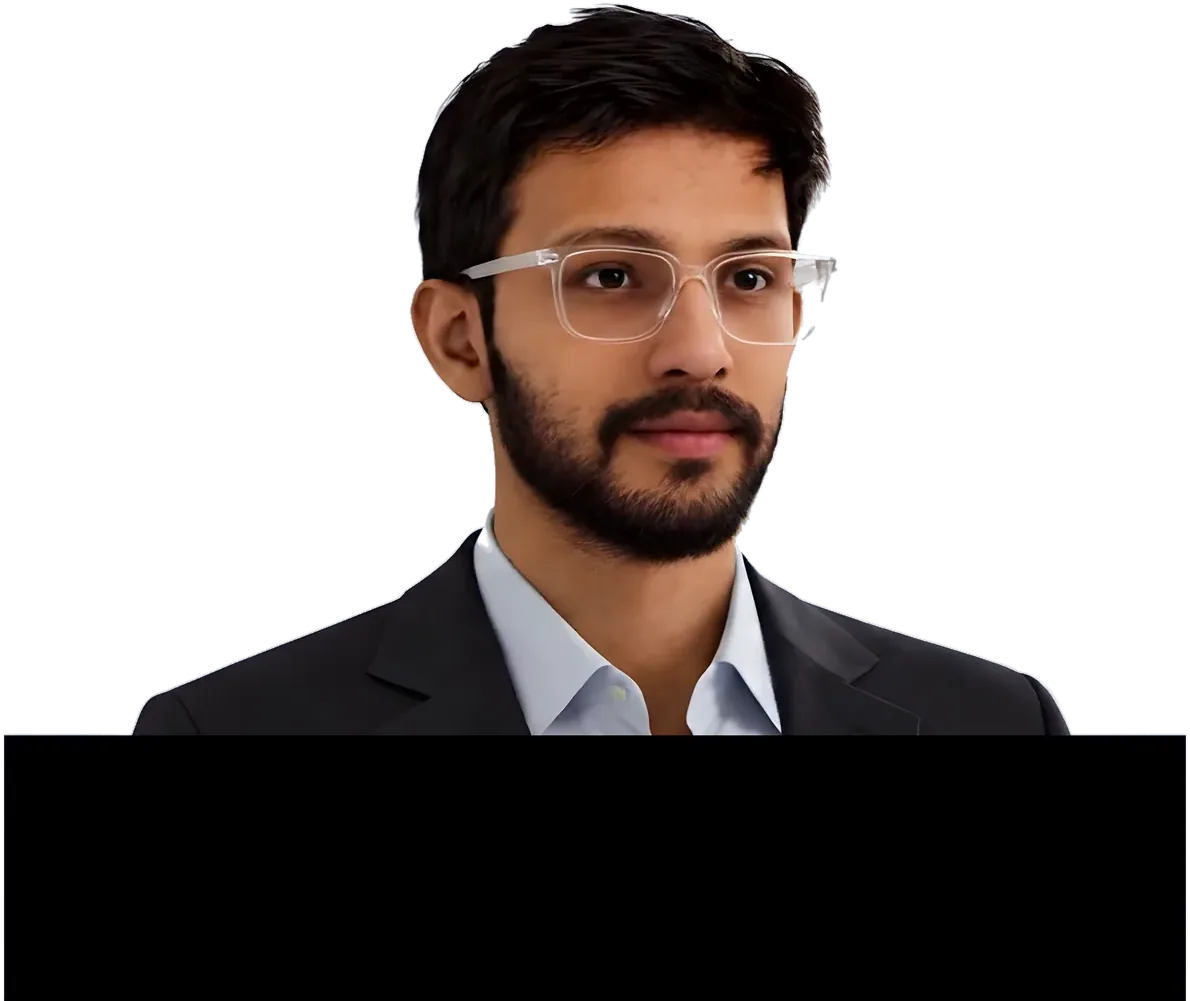
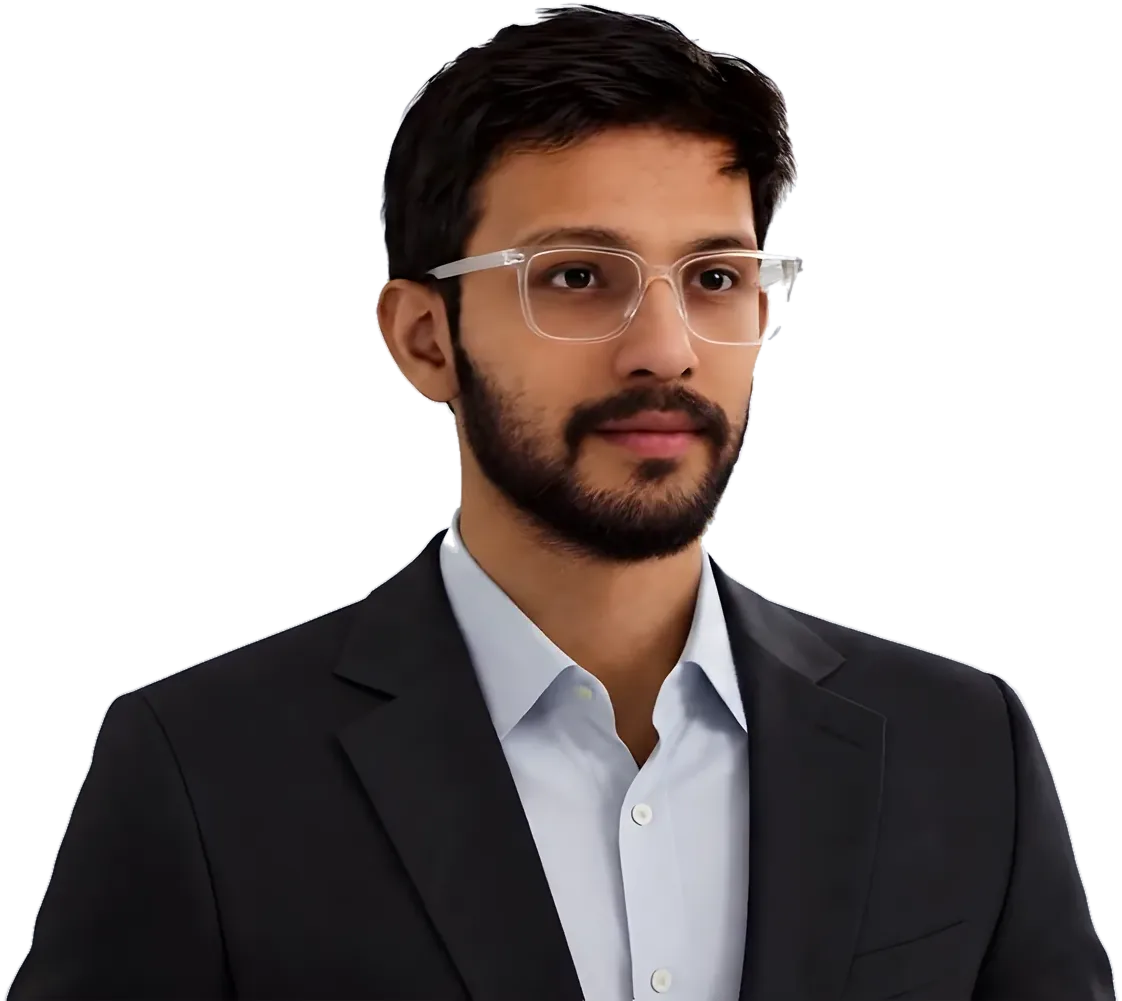
Fix the black rectangles in the hero: repair four damaged HD frames
Root cause: Real-ESRGAN's Vulkan build wrote solid black tiles into four
upscaled frames (14, 15, 26, 42) on the Intel iGPU. Cut out, those became
opaque black rectangles that flashed while scrubbing near the top of the film.

- Re-upscaled the four frames; upscale_crop.py now checks every output for
  black tiles, retries with smaller tiles and falls back to Lanczos
- crop_frames.py warns about any frame containing solid black blocks
- Canvas back on the default (GPU) context; the CPU canvas did not matter

diff --git a/site/js/main.js b/site/js/main.js
@@ -104,17 +104,14 @@ $('#reelPlay').addEventListener('click', () => openProject(PROJECTS.find((p) => 
 
 // ------------------------------------------------------------------ film frames
 const canvas = $('#film');
-// A CPU-backed canvas: the GPU path flashed whole frames as black rectangles on
-// integrated graphics (a frame's texture dropped mid-draw). Frames are small and
-// cropped, so drawing them on the CPU costs a few milliseconds.
-const ctx = canvas.getContext('2d', { willReadFrequently: true });
+const ctx = canvas.getContext('2d');
 let set = { dir: 'assets/seq', meta: { count: 192, w: 1280, h: 720, boxes: [] } };
 const frames = [];
 let wanted = 0, drawn = -1;
 
 const frameUrl = (i) => `${set.dir}/f${String(i).padStart(3, '0')}.webp`;
-// Each frame is decoded once, off the main thread, into an ImageBitmap the browser
-// keeps ready to draw (an <img> can be discarded and half re-decoded mid-scrub).
+// Each frame is decoded once, off the main thread, into an ImageBitmap that stays
+// ready to draw, so scrubbing never waits on a decode.
 function loadFrame(i) {
   const url = frameUrl(i);
   const asImage = () => new Promise((res) => {

diff --git a/tools/upscale_crop.py b/tools/upscale_crop.py
@@ -1,25 +1,53 @@
 # AI-upscale only the part of each frame that shows him (the backdrop is cut out
 # later anyway), composite onto a Lanczos-resized frame at 1920x1080.
+#
+# Usage: python tools/upscale_crop.py <workdir> <sd meta.json>
+#   <workdir>/hd_in/hNNN.png   source frames (1280x720)
+#   <workdir>/hd_x4/hNNN.png   output (1920x1080)
+#   <workdir>/esrgan/          realesrgan-ncnn-vulkan.exe + models
+#
+# Real-ESRGAN's Vulkan build can return solid black tiles on integrated GPUs. Every
+# result is checked for them; a bad one is retried with smaller tiles and, if it
+# still fails, that frame falls back to a plain Lanczos resize. Existing outputs are
+# re-checked too, so running the script again repairs a damaged set.
 import json, os, subprocess, sys
+import numpy as np
 from PIL import Image
+
 SP = sys.argv[1]
 meta = json.load(open(sys.argv[2]))
 exe = os.path.join(SP, 'esrgan', 'realesrgan-ncnn-vulkan.exe')
 S = 1920 / 1280
+
+def has_black_tiles(im, size=32):
+    """True if any size x size block is pure black (a failed GPU tile, not a dark suit)."""
+    a = np.asarray(im.convert('RGB')).max(axis=2) < 4
+    h, w = (a.shape[0] // size) * size, (a.shape[1] // size) * size
+    return bool(a[:h, :w].reshape(h // size, size, w // size, size).all(axis=(1, 3)).any())
+
+def upscale(crop_path, up_path):
+    for tile in ('256', '128', '64'):
+        subprocess.run([exe, '-i', crop_path, '-o', up_path, '-n', 'realesrgan-x4plus', '-t', tile],
+                       cwd=os.path.join(SP, 'esrgan'), capture_output=True, check=True)
+        up = Image.open(up_path).convert('RGB')
+        if not has_black_tiles(up): return up, tile
+        print(f'  black tiles with -t {tile}, retrying', flush=True)
+    return None, None
+
 for i in range(96):
     out = os.path.join(SP, 'hd_x4', f'h{i:03d}.png')
-    if os.path.exists(out): continue
+    if os.path.exists(out) and not has_black_tiles(Image.open(out)): continue
     src = Image.open(os.path.join(SP, 'hd_in', f'h{i:03d}.png')).convert('RGB')
     b = meta['boxes'][min(2 * i, len(meta['boxes']) - 1)]
     m = 24
     x0 = max(0, int(b[0] * 1280) - m); y0 = max(0, int(b[1] * 720) - m)
     x1 = min(1280, int(b[2] * 1280) + m); y1 = min(720, int(b[3] * 720) + m)
-    crop = os.path.join(SP, 'hd_x4', 'crop.png'); up = os.path.join(SP, 'hd_x4', 'up.png')
+    crop = os.path.join(SP, 'crop.png'); upp = os.path.join(SP, 'up.png')
     src.crop((x0, y0, x1, y1)).save(crop)
-    subprocess.run([exe, '-i', crop, '-o', up, '-n', 'realesrgan-x4plus', '-t', '256'], cwd=os.path.join(SP, 'esrgan'), capture_output=True, check=True)
     big = src.resize((1920, 1080), Image.LANCZOS)
-    u = Image.open(up).convert('RGB').resize((round((x1 - x0) * S), round((y1 - y0) * S)), Image.LANCZOS)
-    big.paste(u, (round(x0 * S), round(y0 * S)))
+    up, tile = upscale(crop, upp)
+    if up is not None:
+        big.paste(up.resize((round((x1 - x0) * S), round((y1 - y0) * S)), Image.LANCZOS), (round(x0 * S), round(y0 * S)))
     big.save(out)
-    print('done', i, flush=True)
+    print('done', i, f'(tile {tile})' if up is not None else '(AI failed, Lanczos fallback)', flush=True)
 print('ALLDONE')

diff --git a/tools/crop_frames.py b/tools/crop_frames.py
@@ -10,6 +10,7 @@ cropped frame back at its original position. Safe to run again: frames that are
 already cropped keep their stored offsets.
 """
 import glob, json, os, sys
+import numpy as np
 from PIL import Image
 
 PAD = 2
@@ -31,6 +32,15 @@ def main(folder):
         im.crop((x0, y0, x1, y1)).save(path, 'WEBP', quality=82, method=6)
         crops.append([x0, y0, x1 - x0, y1 - y0])
         before += W * H; after += (x1 - x0) * (y1 - y0)
+    # a solid opaque-black block means a damaged source frame (e.g. a failed GPU tile
+    # in the upscaler); it shows as a black rectangle on the page, so flag it loudly
+    for i, path in enumerate(sorted(glob.glob(os.path.join(folder, 'f*.webp')))):
+        arr = np.asarray(Image.open(path).convert('RGBA')).astype(int)
+        h, w = arr.shape[:2]
+        blk = (arr[..., 3] > 250) & (arr[..., :3].max(axis=2) < 4)
+        hh, ww = (h // 32) * 32, (w // 32) * 32
+        if hh and ww and blk[:hh, :ww].reshape(hh // 32, 32, ww // 32, 32).all(axis=(1, 3)).any():
+            print(f'WARNING: {os.path.basename(path)} has solid black blocks (damaged frame)')
     meta['crops'] = crops
     json.dump(meta, open(meta_path, 'w'), separators=(',', ':'))
     print(f'{len(crops)} frames, decoded pixels {before / 1e6:.0f}M -> {after / 1e6:.0f}M ({after / before:.0%})')
